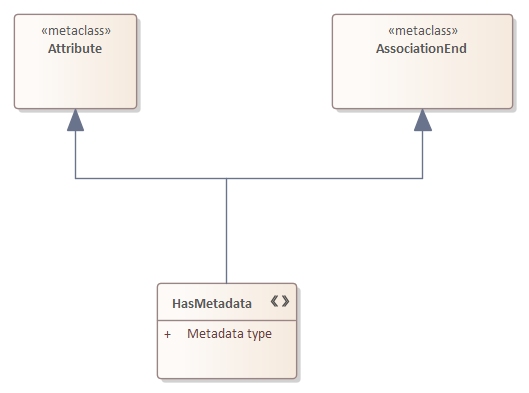
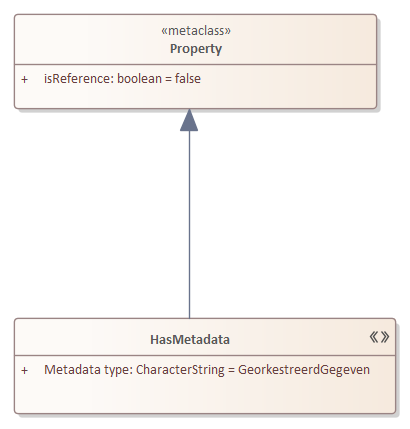
UML profiel toegevoegd

Changed region(s): [[0.0, 0.0305, 0.9951, 0.9771]]

diff --git a/Metadata_extensie.md b/Metadata_extensie.md
@@ -57,14 +57,16 @@ In figure 2 the value for `Metadata type = PropertyMetadata` is only an example 
 
 # MIM-UML extension
 
-The defined stereotype and related tagged value lead to an extension of the MIM model. As the extension for now is independent from MIM teh extension is described both as an extension of the UML metamodel and the MIM-UML model.
+The defined stereotype and related tagged value lead to an extension of the MIM model. As the extension for now is independent from MIM the extension is described both as an extension of the UML metamodel and the MIM-UML model.
 
 **Extension on UML**
 
 <figure id="Figure_3">
 <img src="media/UML extension.png" alt="">
-<figcaption>Stereotype `«HasMetadata»` as extension on UML metaclasses</figcaption>
+<figcaption>Stereotype `«HasMetadata»` as extension on UML metaclass Property</figcaption>
 </figure>
+
+This UML profile is implemented in a EA MDG Technology named [HasMetadata_mdg](UML-profile/HasMetadata_mdg_build01.xml).
 
 **Extension on MIM-UML**
 
